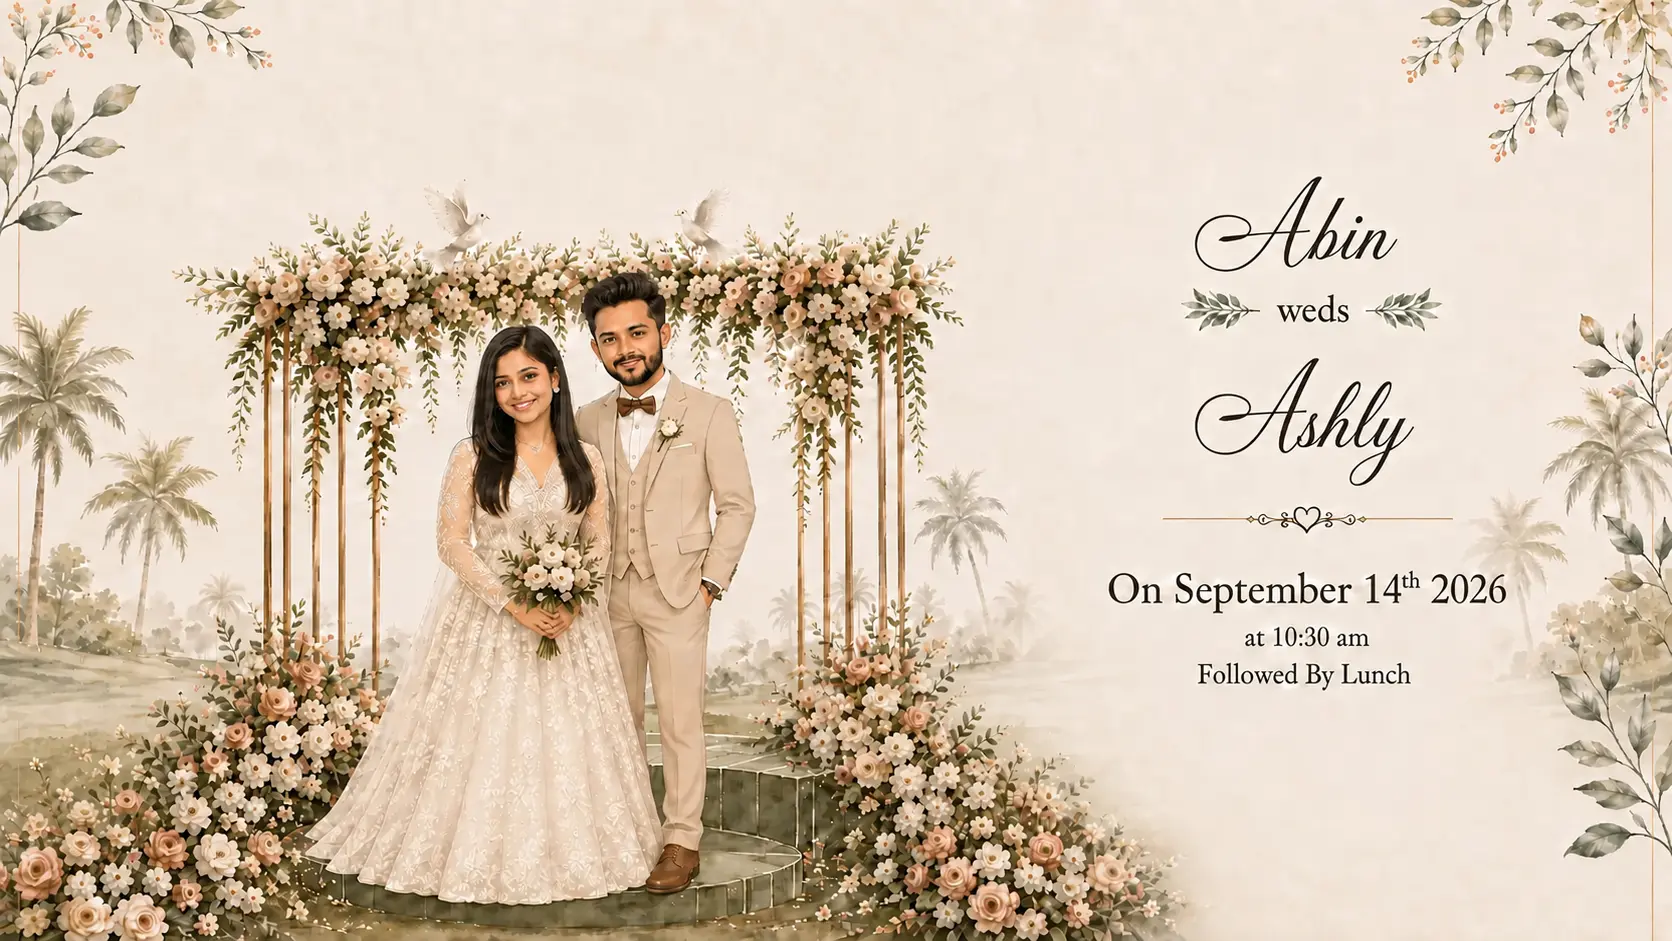
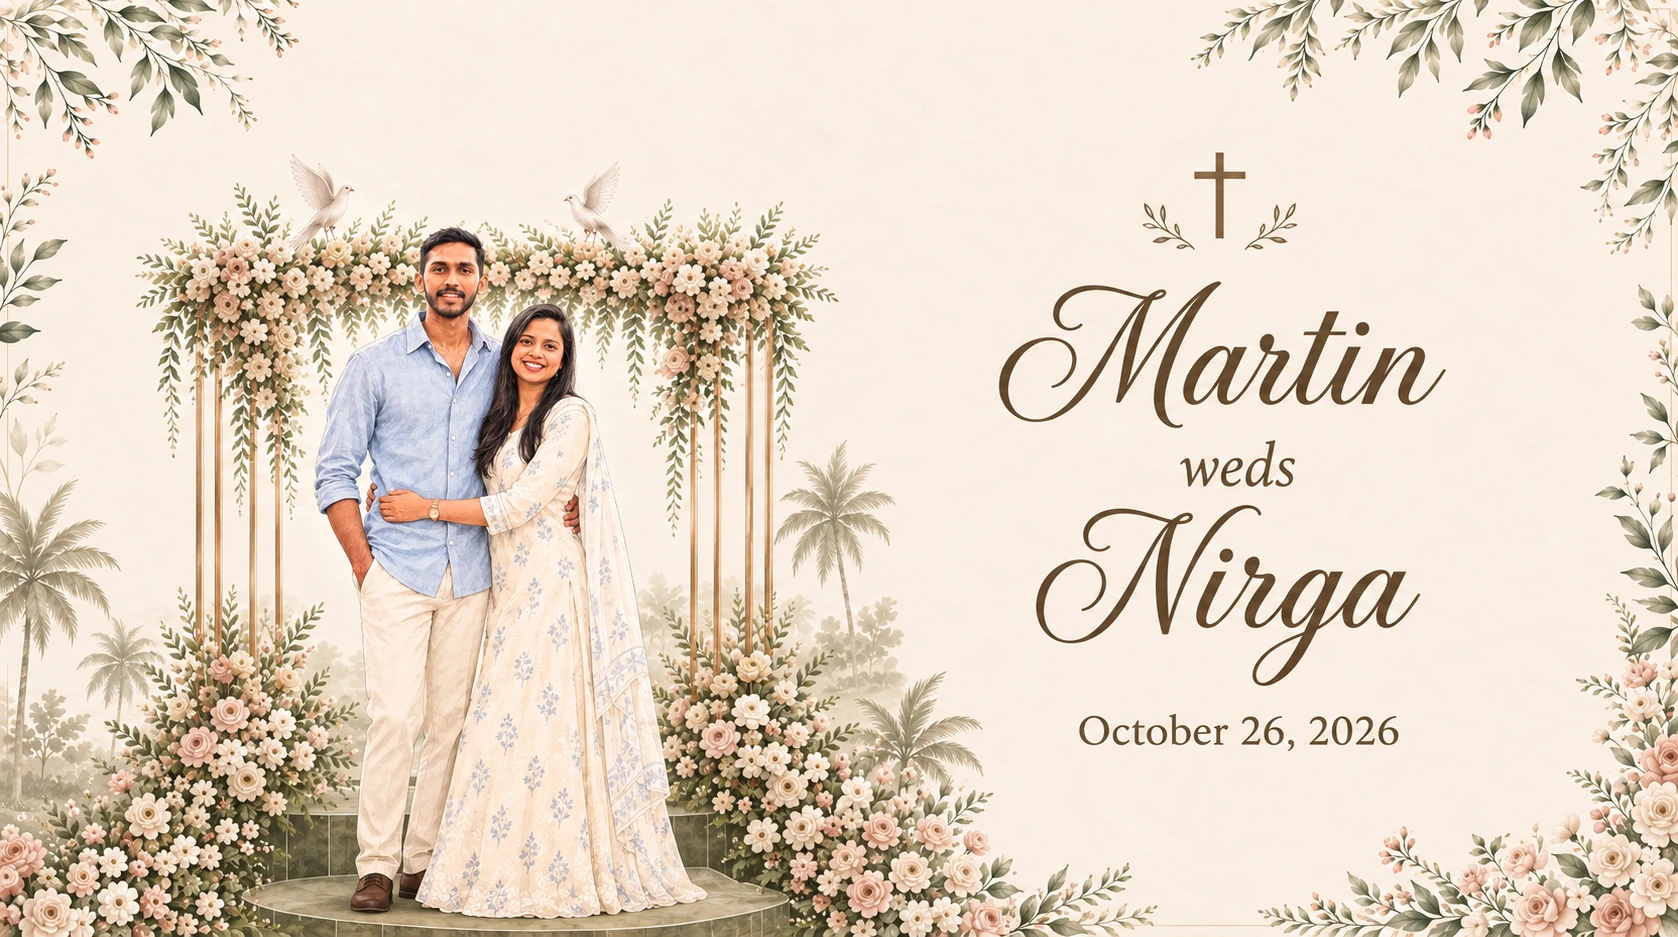
chaged thumb

diff --git a/index.html b/index.html
@@ -13,17 +13,17 @@
   <meta property="og:type" content="website" />
   <meta property="og:title" content="Martin &amp; Nivya Wedding Invitation" />
   <meta property="og:description" content="We invite you to celebrate our special day with us." />
-  <meta property="og:image" content="https://abin-weds-ashly.vercel.app/thumb.webp?v=5" />
+  <meta property="og:image" content="https://abin-weds-ashly.vercel.app/thumb.webp?v=6" />
   <meta property="og:image:type" content="image/webp" />
-  <meta property="og:image:width" content="1200" />
-  <meta property="og:image:height" content="630" />
+  <meta property="og:image:width" content="1678" />
+  <meta property="og:image:height" content="937" />
   <meta property="og:url" content="https://abin-weds-ashly.vercel.app/" />
 
   <!-- Twitter / X Cards -->
   <meta name="twitter:card" content="summary_large_image" />
   <meta name="twitter:title" content="Martin &amp; Nivya Wedding Invitation" />
   <meta name="twitter:description" content="We invite you to celebrate our special day with us." />
-  <meta name="twitter:image" content="https://abin-weds-ashly.vercel.app/thumb.webp?v=5" />
+  <meta name="twitter:image" content="https://abin-weds-ashly.vercel.app/thumb.webp?v=6" />
 
   <!-- Favicon -->
   <link rel="icon" href="/alone.webp?v=3" type="image/webp" />
